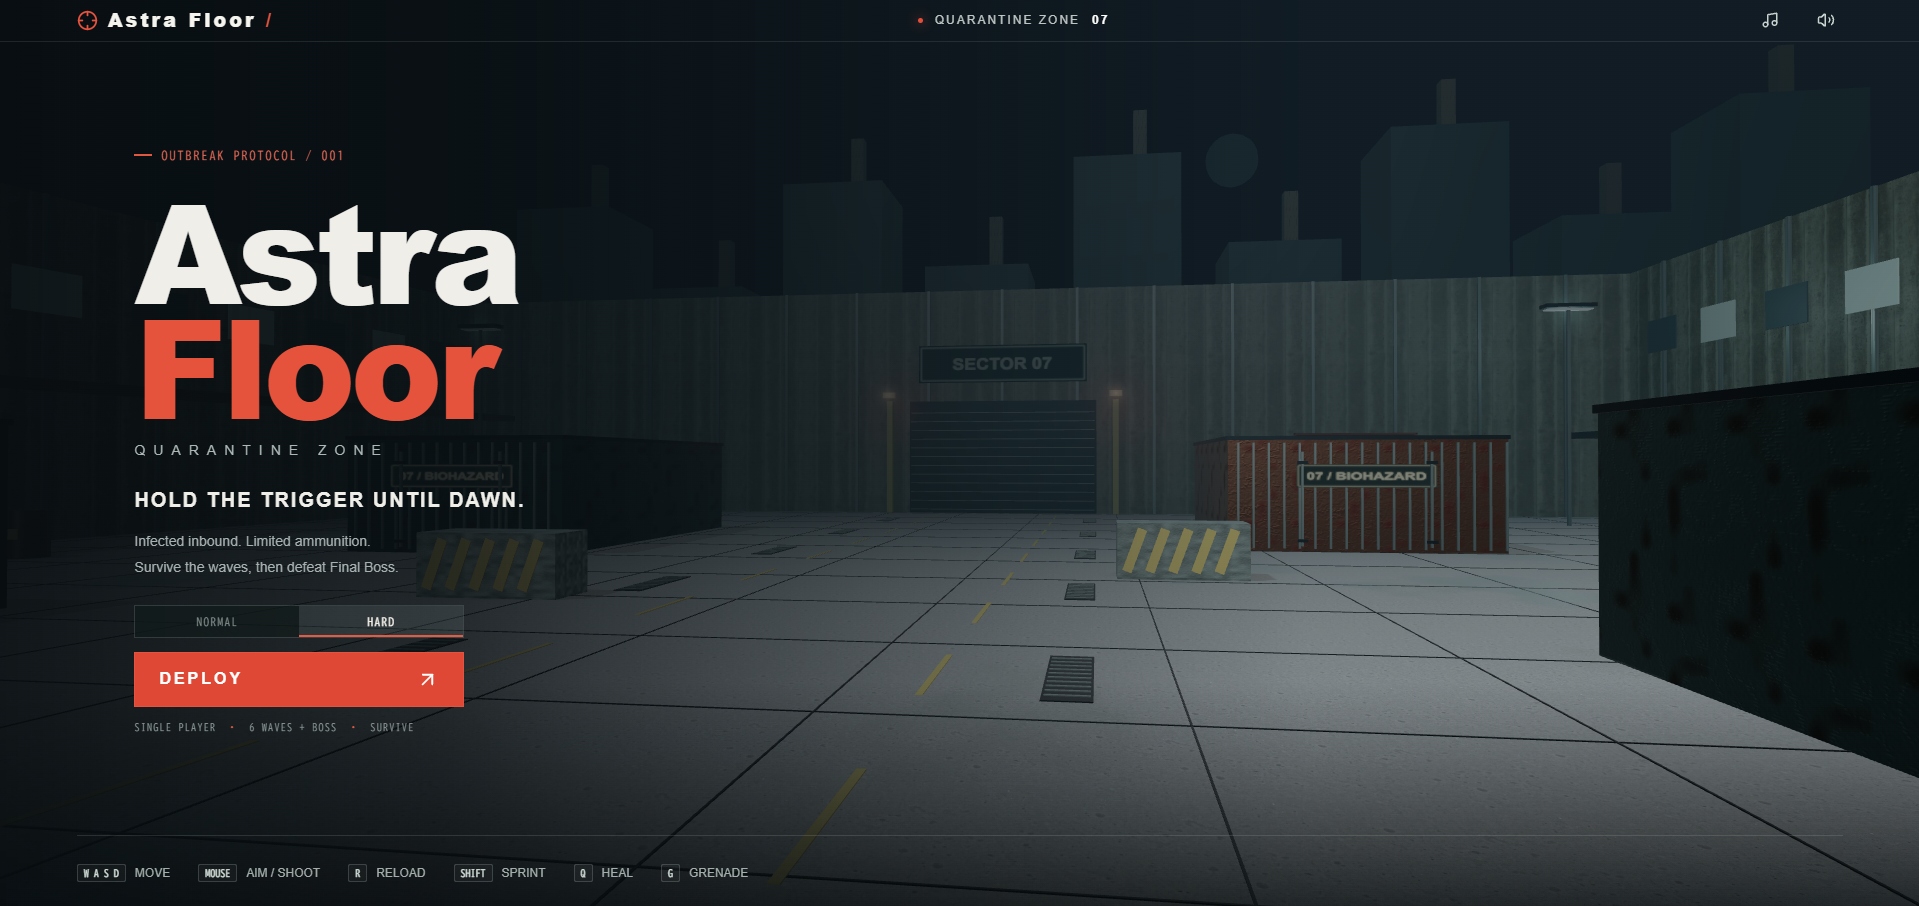
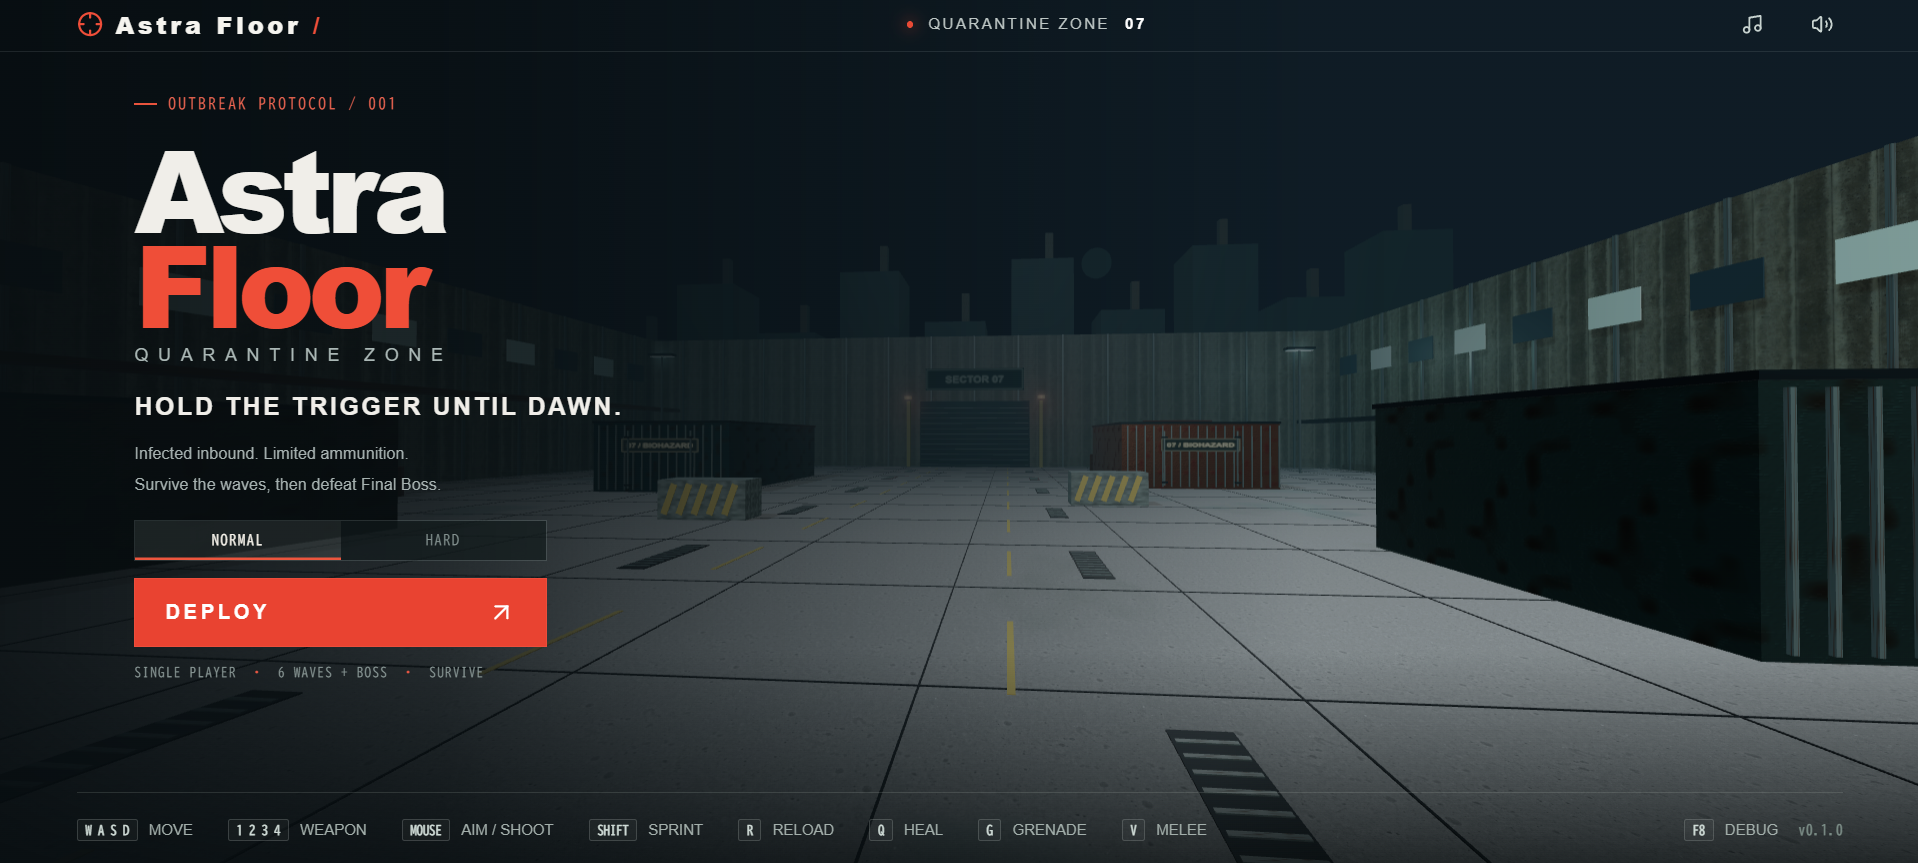
feat(ui): expand game controls and add version indicator
Update the control footer with weapon switching, melee, and debug shortcuts, plus a v0.1.0 label. Reorganize controls into left and right groups and make the layout responsive with flexible sizing, spacing, wrapping, and alignment adjustments. Update the associated image asset.

diff --git a/app/page.tsx b/app/page.tsx
@@ -247,24 +247,38 @@ export default function Home() {
             {error && <p role="alert">{error}</p>}
           </div>
           <footer className="control-strip">
-            <span>
-              <kbd>W A S D</kbd> MOVE
-            </span>
-            <span>
-              <kbd>MOUSE</kbd> AIM / SHOOT
-            </span>
-            <span>
-              <kbd>R</kbd> RELOAD
-            </span>
-            <span>
-              <kbd>SHIFT</kbd> SPRINT
-            </span>
-            <span>
-              <kbd>Q</kbd> HEAL
-            </span>
-            <span>
-              <kbd>G</kbd> GRENADE
-            </span>
+            <div className="control-strip-left">
+              <span>
+                <kbd>W A S D</kbd> MOVE
+              </span>
+              <span>
+                <kbd>1 2 3 4</kbd> WEAPON
+              </span>
+              <span>
+                <kbd>MOUSE</kbd> AIM / SHOOT
+              </span>
+              <span>
+                <kbd>SHIFT</kbd> SPRINT
+              </span>
+              <span>
+                <kbd>R</kbd> RELOAD
+              </span>
+              <span>
+                <kbd>Q</kbd> HEAL
+              </span>
+              <span>
+                <kbd>G</kbd> GRENADE
+              </span>
+              <span>
+                <kbd>V</kbd> MELEE
+              </span>
+            </div>
+            <div className="control-strip-right">
+              <span>
+                <kbd>F8</kbd> DEBUG
+              </span>
+              <span className="version-label">v0.1.0</span>
+            </div>
           </footer>
         </section>
       )}

diff --git a/app/globals.css b/app/globals.css
@@ -511,17 +511,40 @@ h1 i {
   left: 4%;
   right: 4%;
   border-top: 1px solid #cbd6cb26;
-  height: 75px;
+  min-height: 75px;
   display: flex;
-  gap: 28px;
+  justify-content: space-between;
   align-items: center;
+  gap: 24px;
   color: #a3afab;
   font-size: 12px;
+  padding: 10px 0;
+  box-sizing: border-box;
 }
-.control-strip > span {
+.control-strip-left {
+  display: flex;
+  align-items: center;
+  gap: 28px;
+  flex-wrap: wrap;
+}
+.control-strip-right {
+  display: flex;
+  align-items: center;
+  gap: 16px;
+  margin-left: auto;
+  flex-shrink: 0;
+  white-space: nowrap;
+}
+.control-strip span {
   display: flex;
   align-items: center;
   gap: 9px;
+}
+.version-label {
+  font: 11px monospace;
+  font-weight: bold;
+  letter-spacing: 0.5px;
+  color: #798a84;
 }
 kbd {
   font: 10px monospace;
@@ -1105,7 +1128,7 @@ kbd {
     font-size: 13px;
   }
   .control-strip {
-    height: 60px;
+    min-height: 60px;
   }
 }
 @media (max-width: 1000px) {
@@ -1113,9 +1136,15 @@ kbd {
     left: 6%;
   }
   .control-strip {
-    gap: 15px;
+    gap: 12px;
   }
-  .control-strip > span {
+  .control-strip-left {
+    gap: 14px;
+  }
+  .control-strip-right {
+    gap: 10px;
+  }
+  .control-strip span {
     gap: 5px;
   }
   .solo {
